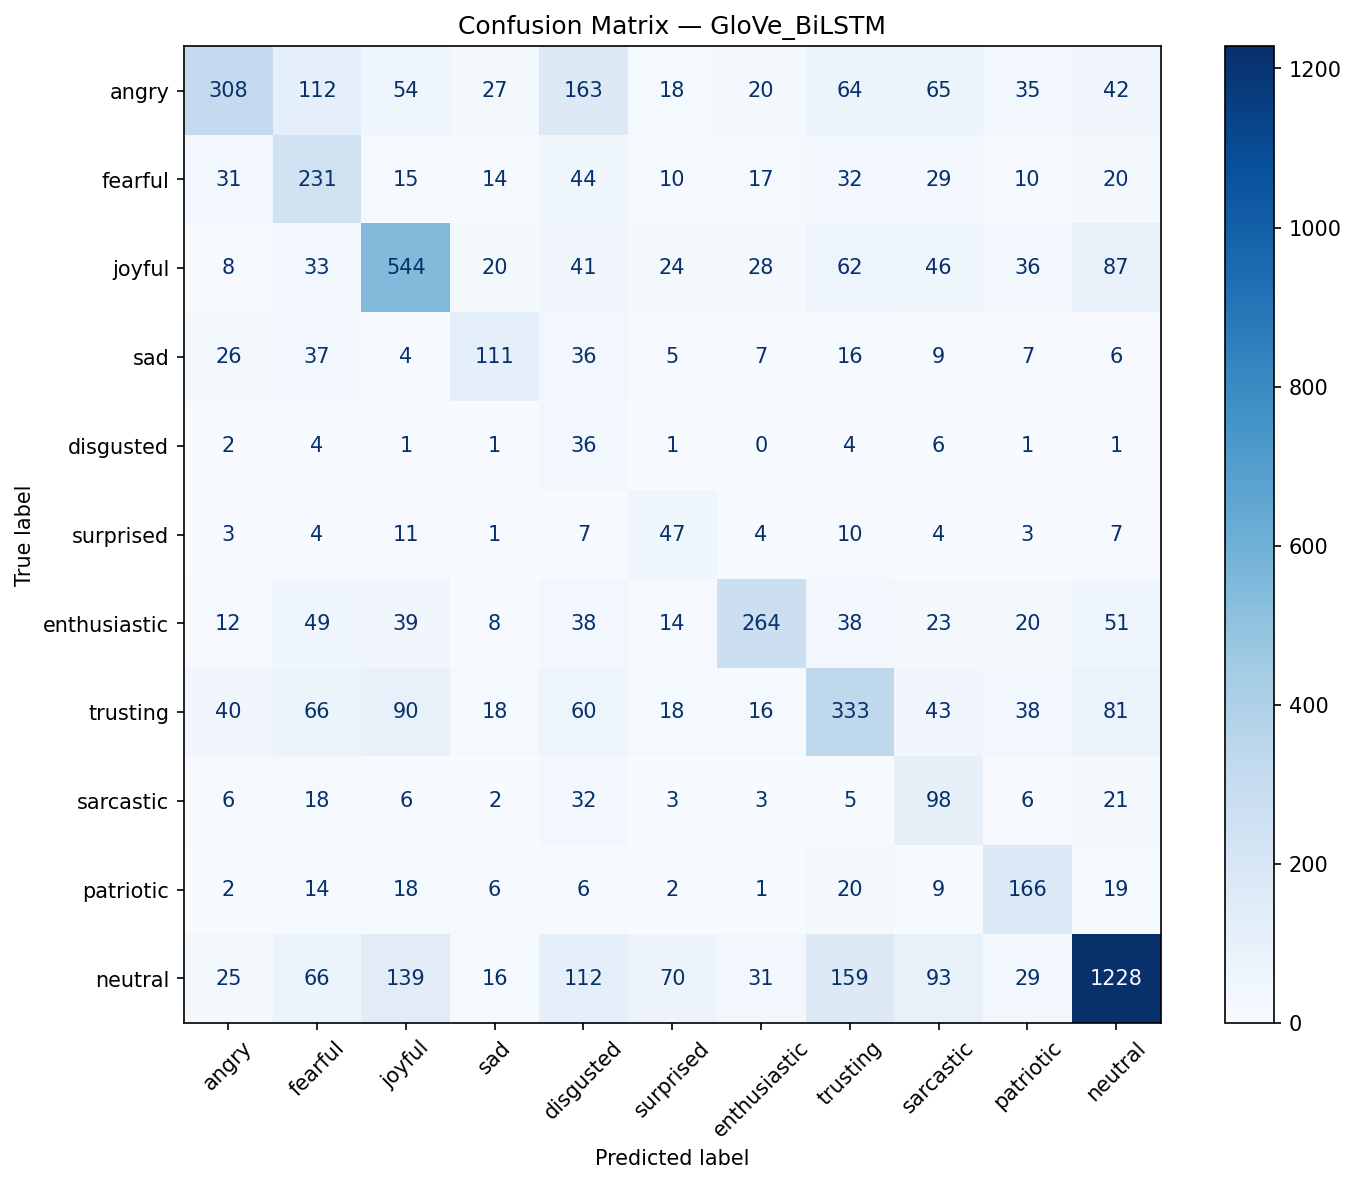
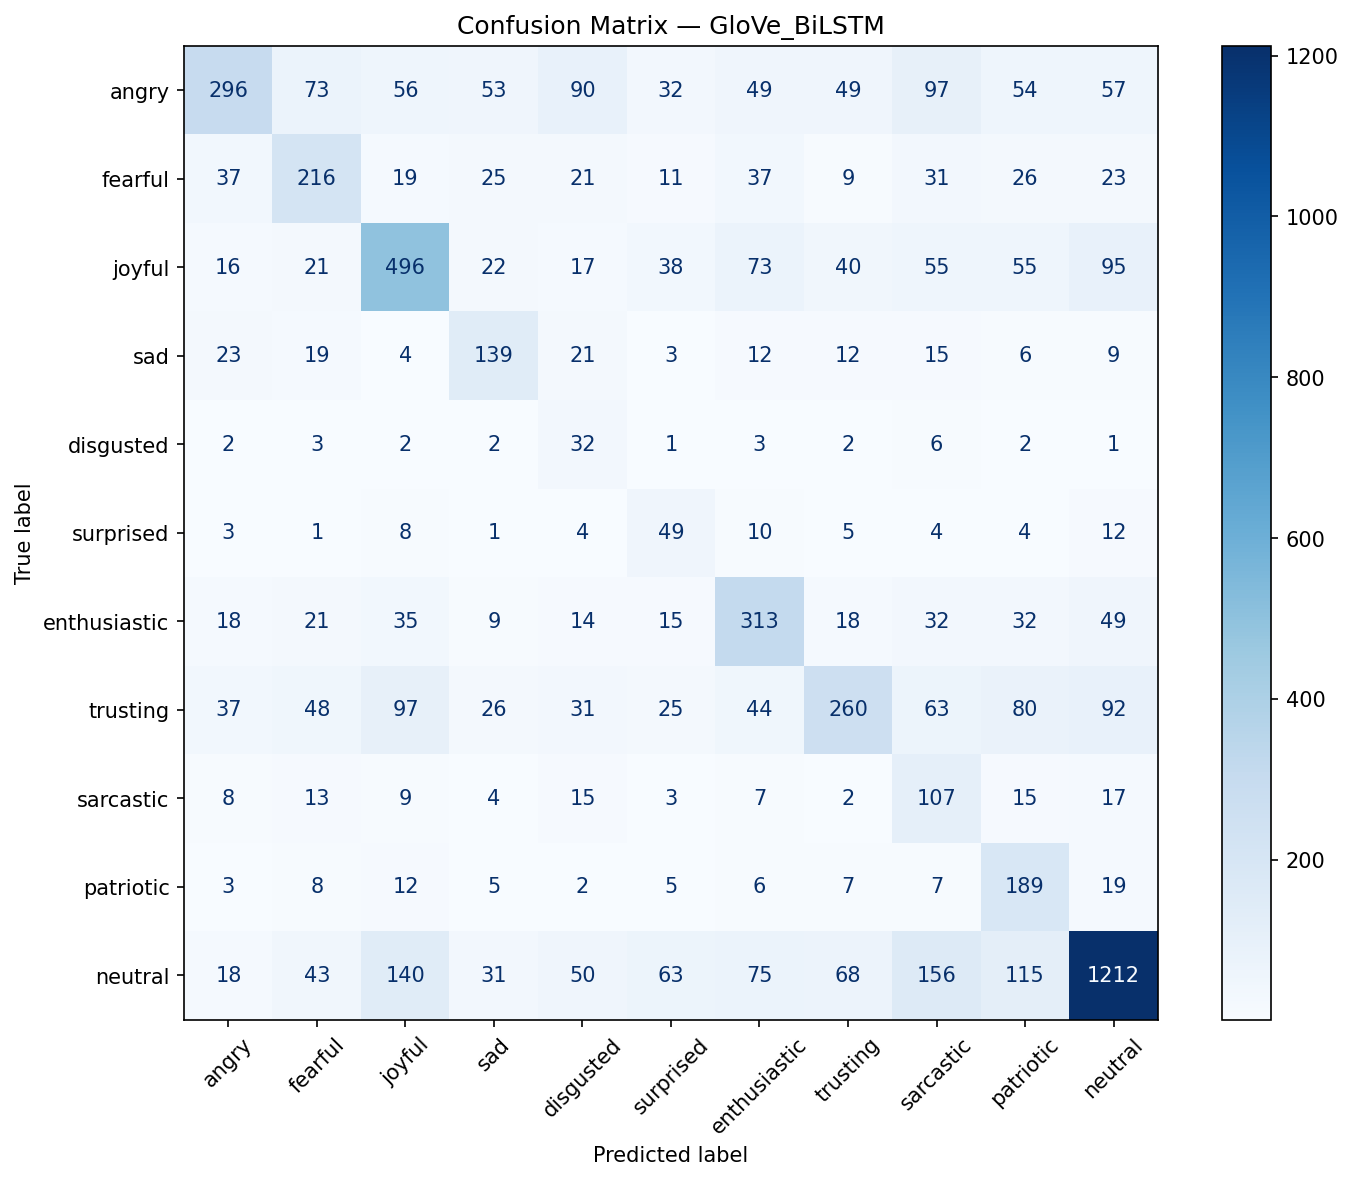
update sprawozdania

diff --git a/sprawozdanie/sprawozdanie.tex b/sprawozdanie/sprawozdanie.tex
@@ -26,22 +26,33 @@ linkcolor=blue,
 urlcolor=blue
 }
 
-\title{
-\textbf{Sprawozdanie - Analiza sentymentu tweetów Donalda Trumpa}
-}
-
-\author{
-Autorzy:\
-Martyna Lach,\
-Julia Mucha,\
-Piotr Waszak
-}
-
-\date{\today}
-
 \begin{document}
 
-\maketitle
+\begin{titlepage}
+\centering
+
+\vspace*{2cm}
+
+{\LARGE\textbf{Dokumentacja}}\\[0.5cm]
+{\Large Metody Inteligencji Obliczeniowej}\\[1cm]
+{\Huge\textbf{Analiza sentymentu tweetów Donalda Trumpa}}\\[3cm]
+
+\includegraphics[width=0.25\textwidth]{figures/agh.png}\\[2cm]
+
+{\Large Wydział Fizyki i Informatyki Stosowanej}\\[1.5cm]
+
+\begin{tabular}{c}
+Martyna Lach \\
+Julia Mucha \\
+Piotr Waszak
+
+\end{tabular}
+
+\vfill
+
[phone redacted]
+
+\end{titlepage}
 
 \tableofcontents
 \newpage
@@ -68,6 +79,7 @@ W ramach projektu przygotowano automatyczny system etykietowania tweetów, a nas
 
 \begin{itemize}
 \item DistilBERT + MLP,
+\item DistilBERT (end-to-end),
 \item SBERT + MLP,
 \item GloVe + BiLSTM,
 \item Zero-Shot BART,
@@ -136,42 +148,48 @@ Jak pokazano na rysunku \ref{fig:class_distribution}, zbiór danych jest niezbal
 % =====================================================
 \section{Zastosowane metody}
 
-W celu oceny różnych sposobów reprezentacji tekstu oraz klasyfikacji emocji przeprowadzono eksperymenty z wykorzystaniem czterech podejść opartych na nowoczesnych metodach przetwarzania języka naturalnego. Zastosowane modele różniły się zarówno sposobem reprezentacji tweetów, jak i architekturą klasyfikatora.
+W celu oceny różnych sposobów reprezentacji tekstu oraz klasyfikacji emocji przeprowadzono eksperymenty z wykorzystaniem pięciu podejść opartych na nowoczesnych metodach przetwarzania języka naturalnego. Zastosowane modele różniły się zarówno sposobem reprezentacji tweetów, jak i architekturą klasyfikatora.
 
 \begin{table}[H]
 \centering
 \caption{Porównanie zastosowanych podejść.}
-\label{tab}
+\label{tab:models}
 \begin{tabular}{lll}
 \toprule
-Model & Reprezentacja tekstu & Klasyfikator \\
+Model & Reprezentacja & Klasyfikator \\
 \midrule
-DistilBERT + MLP & embedding CLS (768) & Residual MLP \\
-SBERT + MLP & embedding zdania (384) & Residual MLP \\
-GloVe + BiLSTM & sekwencja tokenów (200) & BiLSTM + Attention \\
-Zero-Shot BART & reprezentacja wewnętrzna BART & NLI (bez treningu) \\
-TF-IDF + Logistic Regression & TF-IDF & Logistic Regression \\
+DistilBERT + MLP & CLS (768) & Residual MLP \\
+DistilBERT FT & Tokeny + CLS (768) & DistilBERT (end-to-end) \\
+SBERT + MLP & Sentence Embedding (384) & Residual MLP \\
+GloVe + BiLSTM & Token Embeddings (200) & BiLSTM + Attention \\
+Zero-Shot BART & Reprezentacja BART & NLI \\
+TF-IDF + LR & TF-IDF & Logistic Regression \\
 \bottomrule
 \end{tabular}
 \end{table}
+\subsection{DistilBERT + MLP (frozen)}
 
-\subsection{DistilBERT + MLP}
-
-Pierwsze podejście wykorzystywało embeddingi generowane przez model DistilBERT. Dla każdego tweeta pobierano reprezentację tokenu CLS o wymiarze 768, która stanowiła zagregowany opis całej wypowiedzi.
+Pierwsze podejście wykorzystywało embeddingi generowane przez model DistilBERT. Dla każdego tweeta pobierano reprezentację tokenu CLS o wymiarze 768, która stanowiła zagregowany opis całej wypowiedzi. Wagi modelu DistilBERT pozostawały zamrożone podczas treningu — model pełnił wyłącznie rolę ekstrakatora cech.
 
 Embeddingi były następnie przekazywane do wielowarstwowej sieci neuronowej typu MLP (Multi-Layer Perceptron) wyposażonej w połączenia rezydualne (Residual Connections). Zastosowanie połączeń rezydualnych umożliwia stabilniejszy trening głębszych sieci poprzez ułatwienie propagacji gradientów oraz ograniczenie problemu zanikania gradientu.
 
-Architektura składała się z warstwy projekcji wejścia, trzech bloków rezydualnych wykorzystujących funkcję aktywacji GELU oraz końcowej warstwy klasyfikacyjnej przewidującej jedną z jedenastu klas emocjonalnych.
+Architektura składała się z warstwy projekcji wejścia, dwóch bloków rezydualnych wykorzystujących funkcję aktywacji GELU oraz końcowej warstwy klasyfikacyjnej przewidującej jedną z jedenastu klas emocjonalnych.
+
+\subsection{DistilBERT Fine-tuned (end-to-end)}
+
+Drugie podejście stanowiło rozszerzenie pierwszego — zamiast zamrożonych embeddingów przeprowadzono pełny fine-tuning modelu DistilBERT wraz z klasyfikatorem. Wagi transformera były aktualizowane podczas treningu, co pozwala modelowi dostosować reprezentacje do specyfiki klasyfikacji emocji w tweetach.
+
+Model przyjmował na wejściu tokeny (input\_ids oraz attention\_mask) i przekazywał reprezentację tokenu CLS do prostszej głowy klasyfikacyjnej: Dropout → Linear(768, 256) → GELU → Dropout → Linear(256, 11). Ze względu na znacznie wyższy koszt obliczeniowy fine-tuningu trening przeprowadzono na podzbiorze 12\,000 próbek przez 4 epoki z early stopping (patience = 2), z oddzielnymi wartościami learning rate dla warstw transformera ($3 \times 10^{-5}$) i głowy klasyfikacyjnej ($3 \times 10^{-4}$).
 
 \subsection{SBERT + MLP}
 
-Drugie podejście oparto na modelu Sentence-BERT (SBERT), wykorzystując wariant \texttt{all-MiniLM-L6-v2}. W przeciwieństwie do klasycznego BERT-a, model ten został zaprojektowany do generowania reprezentacji całych zdań i zachowywania podobieństwa semantycznego pomiędzy wypowiedziami.
+Trzecie podejście oparto na modelu Sentence-BERT (SBERT), wykorzystując wariant \texttt{all-MiniLM-L6-v2}. W przeciwieństwie do klasycznego BERT-a, model ten został zaprojektowany do generowania reprezentacji całych zdań i zachowywania podobieństwa semantycznego pomiędzy wypowiedziami.
 
 Każdy tweet reprezentowany był przez wektor o wymiarze 384. Następnie zastosowano tę samą architekturę klasyfikatora MLP z połączeniami rezydualnymi, co w przypadku modelu DistilBERT. Dzięki temu możliwe było bezpośrednie porównanie jakości obu rodzajów embeddingów przy identycznej architekturze klasyfikacyjnej.
 
 \subsection{GloVe + BiLSTM}
 
-Trzecie podejście wykorzystało klasyczne embeddingi GloVe wytrenowane na danych z serwisu Twitter (\texttt{glove-twitter-200}). W przeciwieństwie do modeli transformerowych embeddingi GloVe są statyczne i nie zależą od kontekstu występowania słowa.
+Czwarte podejście wykorzystało klasyczne embeddingi GloVe wytrenowane na danych z serwisu Twitter (\texttt{glove-twitter-200}). W przeciwieństwie do modeli transformerowych embeddingi GloVe są statyczne i nie zależą od kontekstu występowania słowa.
 
 Sekwencje tokenów były przetwarzane przez dwukierunkową sieć LSTM (BiLSTM), która analizowała tekst zarówno od początku do końca, jak i w kierunku przeciwnym. Pozwala to lepiej modelować zależności występujące w zdaniu.
 
@@ -181,7 +199,7 @@ Ostateczna reprezentacja uzyskana przez mechanizm uwagi była przekazywana do wa
 
 \subsection{Zero-Shot BART}
 
-Ostatnie podejście neuronowe stanowił model \texttt{facebook/bart-large-mnli} wykorzystany w trybie klasyfikacji zero-shot. W odróżnieniu od pozostałych metod model nie był trenowany na zbiorze tweetów Donalda Trumpa.
+Piąte podejście stanowił model \texttt{facebook/bart-large-mnli} wykorzystany w trybie klasyfikacji zero-shot. W odróżnieniu od pozostałych metod model nie był trenowany na zbiorze tweetów Donalda Trumpa.
 
 Klasyfikacja realizowana była poprzez mechanizm Natural Language Inference (NLI). Dla każdego tweeta model oceniał prawdopodobieństwo przypisania do każdej z badanych emocji na podstawie zdań opisujących poszczególne klasy.
 
@@ -208,17 +226,21 @@ Tabela \ref{tab:results} przedstawia wartości Accuracy oraz Macro F1 uzyskane p
 \centering
 \caption{Porównanie skuteczności modeli.}
 \label{tab:results}
-\begin{tabular}{lcc}
+\begin{tabular}{lccc}
 \toprule
-Model & Accuracy & Macro F1 \\
+Model & Accuracy & Macro F1 & F1 Weighted \\
 \midrule
-DistilBERT + MLP & 0.267 & 0.197 \\
-SBERT + MLP & 0.329 & 0.257 \\
-GloVe + BiLSTM & 0.518 & 0.443 \\
-Zero-Shot BART & 0.132 & 0.121 \\
-TF-IDF + Logistic Regression & 0.650 & 0.480 \\
+DistilBERT + MLP (frozen) & 0.270 & 0.193 & 0.290 \\
+SBERT + MLP & 0.316 & 0.247 & 0.330 \\
+DistilBERT Fine-tuned & 0.503 & 0.431 & 0.520 \\
+GloVe + BiLSTM & 0.509 & 0.431 & 0.530 \\
+Zero-Shot BART & 0.132 & 0.121 & 0.140 \\
+TF-IDF + Logistic Regression* & 0.650 & 0.480 & 0.630 \\
 \bottomrule
 \end{tabular}
+\smallskip
+
+{\footnotesize * Ewaluacja na losowym podziale 80/20 zamiast stratyfikowanego 70/15/15 stosowanego przez pozostałe modele — wyniki nie są w pełni porównywalne.}
 \end{table}
 
 \begin{figure}[H]
@@ -228,9 +250,11 @@ TF-IDF + Logistic Regression & 0.650 & 0.480 \\
 \label{fig:model_comparison}
 \end{figure}
 
-Najwyższą skuteczność osiągnął model TF-IDF + Logistic Regression, uzyskując Accuracy równą 0.650 oraz Macro F1 na poziomie 0.480. Wśród modeli neuronowych najlepsze wyniki osiągnął model GloVe + BiLSTM z mechanizmem uwagi, który uzyskał Accuracy równą 0.518 oraz Macro F1 równą 0.443.
+Najwyższą skuteczność osiągnął model TF-IDF + Logistic Regression (Accuracy 0.650, Macro F1 0.480), jednak wynik ten należy interpretować z ostrożnością ze względu na różnice w procedurze ewaluacji opisane w przypisie do tabeli. Dodatkowo TF-IDF posiada strukturalną przewagę wynikającą ze sposobu etykietowania: etykiety NRC generowane są na podstawie obecności konkretnych słów w tekście, a model liniowy operuje na tych samych cechach leksykalnych.
 
-Model SBERT + MLP osiągnął lepsze wyniki niż DistilBERT + MLP, co sugeruje, że embeddingi projektowane do reprezentowania znaczenia całych zdań lepiej sprawdzają się w zadaniu klasyfikacji emocji. Najsłabsze rezultaty uzyskał model Zero-Shot BART, który nie był trenowany na analizowanym zbiorze danych i pełnił jedynie rolę punktu odniesienia.
+Wśród modeli neuronowych najlepsze wyniki osiągnęły ex aequo DistilBERT Fine-tuned oraz GloVe + BiLSTM, uzyskując Accuracy odpowiednio 0.503 i 0.509 oraz Macro F1 równą 0.431 dla obu modeli. Wynik DistilBERT Fine-tuned jest szczególnie istotny, ponieważ uzyskano go na podzbiorze zaledwie 12\,000 próbek przy 4 epokach treningu — co wskazuje na potencjał tego podejścia przy pełnym zbiorze danych.
+
+Modele oparte na zamrożonych embeddingach (DistilBERT + MLP, SBERT + MLP) wypadły wyraźnie słabiej, z Macro F1 poniżej 0.25. Najsłabsze rezultaty uzyskał model Zero-Shot BART, który nie był trenowany na analizowanym zbiorze i pełnił jedynie rolę punktu odniesienia.
 
 \subsection{Analiza skuteczności dla poszczególnych klas}
 
@@ -249,13 +273,15 @@ Najlepiej rozpoznawaną klasą była \textit{neutral}, dla której wszystkie mod
 
 Znacznie większe trudności sprawiały klasy \textit{disgusted}, \textit{surprised} oraz \textit{sarcastic}. Dla tych emocji wszystkie analizowane modele osiągały niskie wartości F1-score, często nieprzekraczające 0.2. Szczególnie trudna okazała się klasa \textit{disgusted}, która była jednocześnie jedną z najmniej licznych klas w całym zbiorze danych.
 
-Widoczna zależność pomiędzy liczebnością klasy a jakością klasyfikacji sugeruje, że niezbalansowany rozkład danych miał istotny wpływ na uzyskane wyniki. Jednocześnie niektóre emocje, takie jak \textit{sarcastic}, pozostają trudne do rozpoznania niezależnie od liczby przykładów, ponieważ ich poprawna identyfikacja często wymaga uwzględnienia szerszego kontekstu wypowiedzi.
+Widoczna zależność pomiędzy liczebnością klasy a jakością klasyfikacji sugeruje, że niezbalansowany charakter zbioru danych miał istotny wpływ na uzyskane wyniki. Warto zaznaczyć, że zastosowana stratyfikacja podczas podziału danych zapewniła jedynie zachowanie proporcji klas w zbiorach treningowym i testowym, nie eliminując problemu nierównowagi.
+
+Jednocześnie niektóre emocje, takie jak \textit{sarcastic}, pozostają trudne do rozpoznania niezależnie od liczby przykładów, ponieważ ich poprawna identyfikacja często wymaga uwzględnienia szerszego kontekstu wypowiedzi.
 
 Wynik ten jest zgodny z rozkładem danych przedstawionym wcześniej. Klasy posiadające niewielką liczbę przykładów treningowych były znacznie trudniejsze do nauczenia przez modele, co przełożyło się na niższe wartości Precision, Recall oraz F1-score.
 
 \subsection{Analiza błędów klasyfikacji}
 
-Aby lepiej zrozumieć źródła błędów klasyfikacyjnych, przeanalizowano macierz pomyłek dla najlepszego modelu neuronowego, tj. GloVe + BiLSTM.
+Aby lepiej zrozumieć źródła błędów klasyfikacyjnych, przeanalizowano macierze pomyłek dla dwóch najlepszych modeli neuronowych: GloVe + BiLSTM oraz DistilBERT Fine-tuned.
 
 \begin{figure}[H]
 \centering
@@ -264,13 +290,18 @@ Aby lepiej zrozumieć źródła błędów klasyfikacyjnych, przeanalizowano maci
 \label{fig:confusion_glove}
 \end{figure}
 
-Macierz pomyłek przedstawiona na rysunku \ref{fig:confusion_glove} pokazuje, że model najskuteczniej rozpoznaje klasy licznie reprezentowane w zbiorze danych, takie jak \textit{neutral}, \textit{joyful}, \textit{angry} oraz \textit{trusting}. Jednocześnie można zauważyć wyraźną tendencję do przewidywania klasy \textit{neutral}, która była najczęściej występującą kategorią w całym zbiorze danych.
+\begin{figure}[H]
+\centering
+\includegraphics[width=0.9\textwidth]{figures/confusion_matrix_DistilBERT_FT.png}
+\caption{Macierz pomyłek dla modelu DistilBERT Fine-tuned.}
+\label{fig:confusion_ft}
+\end{figure}
 
-Analiza błędnych klasyfikacji wskazuje również na występowanie pomyłek pomiędzy emocjami o podobnym znaczeniu semantycznym. Przykładowo klasa \textit{angry} była często mylona z klasami \textit{fearful} oraz \textit{disgusted}, natomiast klasa \textit{trusting} była regularnie klasyfikowana jako \textit{joyful} lub \textit{neutral}. Takie błędy są częściowo zrozumiałe, ponieważ granice pomiędzy niektórymi emocjami nie są jednoznaczne nawet dla człowieka.
+Macierz pomyłek modelu GloVe + BiLSTM (rysunek \ref{fig:confusion_glove}) pokazuje, że model najskuteczniej rozpoznaje klasy licznie reprezentowane w zbiorze danych, takie jak \textit{neutral}, \textit{joyful}, \textit{angry} oraz \textit{trusting}. Klasy rzadkie (\textit{disgusted}, \textit{surprised}, \textit{sarcastic}) są rozpoznawane z wysokim recall, ale niską precision — model przewiduje je zbyt często i generuje dużo fałszywych alarmów.
 
-Największe problemy dotyczyły klas rzadkich, takich jak \textit{disgusted}, \textit{surprised} oraz \textit{sarcastic}. Dla tych kategorii liczba poprawnych predykcji była relatywnie niewielka, a wiele przykładów przypisywano do klas częstszych. Jest to typowy efekt niezbalansowanego zbioru danych, w którym model otrzymuje znacznie mniej przykładów umożliwiających nauczenie charakterystycznych wzorców dla klas mniejszościowych.
+DistilBERT Fine-tuned (rysunek \ref{fig:confusion_ft}) prezentuje jakościowo inny wzorzec błędów. Przekątna jest wyraźna dla wszystkich klas, w tym trudnych — \textit{disgusted} (14 poprawnych predykcji), \textit{sarcastic} (33) i \textit{surprised} (10). Popełniane pomyłki są semantycznie uzasadnione: \textit{trusting}~$\rightarrow$~\textit{joyful} (40 przypadków), \textit{angry}~$\rightarrow$~\textit{sad} (44) — model myli emocje bliskie znaczeniowo, a nie losowe klasy jak modele zamrożone.
 
-Wyniki potwierdzają, że głównym źródłem błędów była zarówno nierównowaga klas, jak i częściowe nakładanie się znaczeniowe niektórych emocji występujących w tweetach.
+Analiza obu macierzy wskazuje, że głównym źródłem błędów była zarówno nierównowaga klas, jak i semantyczne podobieństwo niektórych emocji, których granice nie są jednoznaczne nawet dla człowieka.
 
 % =====================================================
 % =====================================================
@@ -278,11 +309,14 @@ Wyniki potwierdzają, że głównym źródłem błędów była zarówno nierówn
 
 Jednym z celów projektu było zbadanie interpretowalności zastosowanych modeli. W tym celu wykorzystano metodę SHAP (SHapley Additive exPlanations), która pozwala określić wpływ poszczególnych cech wejściowych na decyzję klasyfikatora.
 
-Analizę przeprowadzono dla dwóch istotnie różnych podejść: modelu wykorzystującego embeddingi zdań (SBERT + MLP) oraz modelu TF--IDF + Logistic Regression. Pozwoliło to porównać nie tylko skuteczność modeli, ale również możliwość wyjaśnienia ich decyzji.
+Analizę przeprowadzono dla trzech istotnie różnych podejść: modeli opartych na zamrożonych embeddingach (DistilBERT~+~MLP oraz SBERT~+~MLP) oraz modelu TF-IDF~+~Logistic Regression. Pozwoliło to porównać nie tylko skuteczność modeli, lecz również możliwość wyjaśnienia ich decyzji w zależności od rodzaju reprezentacji tekstu.
 
-\subsection{Model SBERT + MLP}
+\subsection{Modele oparte na embeddingach: DistilBERT + MLP i SBERT + MLP}
 
-W przypadku modelu SBERT + MLP wejściem klasyfikatora był embedding zdania o wymiarze 384. Oznacza to, że SHAP analizował wpływ poszczególnych wymiarów reprezentacji wektorowej, a nie konkretnych słów występujących w tweecie.
+
+W przypadku obu modeli opartych na zamrożonych embeddingach wejściem klasyfikatora były wektory reprezentacji zdania — odpowiednio token CLS o wymiarze 768 dla DistilBERT oraz wektor zdania o wymiarze 384 dla SBERT. SHAP analizował wpływ poszczególnych wymiarów tych reprezentacji wektorowych, a nie konkretnych słów występujących w tweetach.
+
+Wykresy słupkowe średniego bezwzględnego wpływu poszczególnych wymiarów (dostępne w repozytorium jako \texttt{shap\_bar\_DistilBERT\_MLP.png} oraz \texttt{shap\_bar\_SBERT\_MLP.png}) pokazują, że różne klasy opierają się na różnych zestawach wymiarów, co sugeruje pewien stopień specjalizacji per klasa. Jednocześnie nakładanie się ważnych wymiarów między klasami — np. dim\_594 pojawia się jako istotny zarówno dla klas \textit{angry}, \textit{joyful}, jak i \textit{trusting} w modelu DistilBERT + MLP — wskazuje na brak wyraźnej separacji przestrzeni embeddingów dla zadania klasyfikacji emocji.
 
 \begin{figure}[H]
 \centering
@@ -291,7 +325,8 @@ W przypadku modelu SBERT + MLP wejściem klasyfikatora był embedding zdania o w
 \label{fig:shap_sbert}
 \end{figure}
 
-Jak pokazano na rysunku \ref{fig:shap_sbert}, SHAP identyfikuje grupę wymiarów embeddingu, które mają największy wpływ na przypisanie klasy \textit{angry}. Możliwe jest określenie względnego znaczenia poszczególnych cech, jednak ich interpretacja pozostaje utrudniona.
+Jak pokazano na rysunku \ref{fig:shap_sbert}, SHAP identyfikuje grupę wymiarów embeddingu, które mają największy wpływ na przypisanie klasy \textit{angry}. 
+Większość punktów skupia się wokół zera z długimi ogonami w obu kierunkach, co wskazuje na niestabilny i silnie próbkozależny wpływ poszczególnych wymiarów. Możliwe jest określenie względnego znaczenia poszczególnych cech, jednak ich interpretacja pozostaje utrudniona.
 
 Poszczególne wymiary embeddingu nie posiadają jednoznacznego znaczenia semantycznego. W przeciwieństwie do klasycznych cech tekstowych nie można stwierdzić, które konkretne słowa lub konstrukcje językowe odpowiadają za obserwowany wpływ. W rezultacie analiza SHAP pozwala ocenić, które fragmenty reprezentacji wektorowej są istotne dla modelu, ale nie wyjaśnia bezpośrednio mechanizmu podejmowania decyzji.
 
@@ -327,27 +362,23 @@ W przeciwieństwie do modelu SBERT możliwe było więc nie tylko wskazanie waż
 
 Analiza SHAP ujawniła wyraźną różnicę pomiędzy interpretowalnością badanych modeli.
 
-Model SBERT wykorzystywał złożoną reprezentację semantyczną tekstu, jednak wpływ poszczególnych wymiarów embeddingu był trudny do przełożenia na język naturalny. Z kolei model TF--IDF pozwalał bezpośrednio wskazać słowa odpowiedzialne za przypisanie danej emocji, dzięki czemu jego decyzje były znacznie bardziej przejrzyste.
+Modele DistilBERT + MLP oraz SBERT + MLP operowały na złożonych reprezentacjach semantycznych tekstu, jednak wpływ poszczególnych wymiarów embeddingu był trudny do przełożenia na język naturalny — niemożliwe było bezpośrednie wskazanie słów odpowiedzialnych za podjętą decyzję. Z kolei model TF-IDF pozwalał zidentyfikować konkretne słowa i bigramy wpływające na klasyfikację każdej z analizowanych emocji, a ich interpretacja była intuicyjna i zgodna z charakterem danej klasy.
 
-Warto zauważyć, że najważniejsze słowa wskazane przez SHAP były zgodne z intuicją oraz charakterem analizowanych emocji. Sugeruje to, że model nie opierał się na przypadkowych korelacjach, lecz rzeczywiście wykorzystywał sygnały językowe związane z treścią tweetów.
-
-Ostatecznie analiza SHAP pokazała, że wzrost złożoności reprezentacji tekstu prowadzi do spadku interpretowalności modelu. Jest to klasyczny kompromis pomiędzy możliwością wyjaśnienia decyzji a wykorzystaniem bardziej abstrakcyjnych reprezentacji semantycznych.
+Ostatecznie analiza SHAP potwierdziła klasyczny kompromis pomiędzy złożonością reprezentacji tekstu a interpretowalnością modelu: bogatsze semantycznie embeddingi oferują potencjalnie lepszy opis treści, lecz kosztem przejrzystości mechanizmu podejmowania decyzji.
 
 
 % =====================================================
 \section{Dyskusja wyników}
 
-\subsection{Dlaczego GloVe + BiLSTM osiągnął najlepsze wyniki wśród modeli neuronowych?}
+\subsection{Dlaczego modele sekwencyjne i fine-tuned przewyższają zamrożone embeddingi?}
 
-Jednym z najbardziej interesujących wyników eksperymentów jest wyraźna przewaga modelu GloVe + BiLSTM nad modelami wykorzystującymi embeddingi transformerowe. Jak pokazano w tabeli \ref{tab:results}, model ten osiągnął Accuracy równą 0.518, podczas gdy DistilBERT + MLP uzyskał jedynie 0.267.
+Jednym z najbardziej interesujących wyników eksperymentów jest wyraźna przewaga modeli GloVe + BiLSTM (Accuracy 0.509) oraz DistilBERT Fine-tuned (Accuracy 0.503) nad modelami wykorzystującymi zamrożone embeddingi transformerowe (DistilBERT + MLP frozen: 0.270, SBERT + MLP: 0.316).
 
-Na pierwszy rzut oka wynik ten może wydawać się zaskakujący. DistilBERT jest znacznie bardziej zaawansowanym modelem językowym niż klasyczne embeddingi GloVe, jednak w przeprowadzonym eksperymencie wykorzystano jedynie gotowy embedding CLS przekazywany następnie do klasyfikatora MLP. W takiej konfiguracji model operuje na pojedynczym wektorze reprezentującym cały tweet i nie wykorzystuje informacji o kolejności słów.
+Modele zamrożone operują na reprezentacjach CLS optymalizowanych pod inne zadania — maskowane modelowanie języka (MLM) dla DistilBERT oraz podobieństwo semantyczne zdań dla SBERT — a nie klasyfikację emocji w nieformalnych tekstach twitterowych. Bogatsza wymiarowość przestrzeni embeddingów nie kompensuje tego niedopasowania dziedzinowego.
 
-Model GloVe + BiLSTM działał w odmienny sposób. BiLSTM przetwarzał pełną sekwencję tokenów, dzięki czemu mógł modelować lokalne zależności pomiędzy słowami. Dodatkowo zastosowany mechanizm Attention pozwalał koncentrować się na fragmentach wypowiedzi najbardziej istotnych dla rozpoznawanej emocji.
+GloVe + BiLSTM uzyskuje wysoką skuteczność z dwóch niezależnych powodów. Embeddingi \texttt{glove-twitter-200} wytrenowane na korpusie tweetów naturalnie kodują skróty, emotikony i nieformalny rejestr językowy charakterystyczny dla badanego zbioru. Architektura BiLSTM z mechanizmem addytywnej uwagi zachowuje lokalny kontekst sekwencyjny — model przypisuje zróżnicowane wagi poszczególnym tokenom zamiast operować na jednym zagregowanym wektorze.
 
-Istotnym czynnikiem mogła być również domena danych wykorzystanych podczas uczenia embeddingów. Model \texttt{glove-twitter-200} został wytrenowany bezpośrednio na tweetach, przez co lepiej odwzorowuje charakterystyczny język mediów społecznościowych, obejmujący skróty, niestandardową interpunkcję czy częste użycie wielkich liter. Analizowane tweety są znacznie bliższe temu środowisku niż tekstom wykorzystywanym podczas trenowania DistilBERT.
-
-Wyniki sugerują więc, że w analizowanym zadaniu większe znaczenie miało dopasowanie reprezentacji do domeny oraz możliwość modelowania sekwencji niż sama złożoność modelu językowego.
+DistilBERT Fine-tuned osiąga porównywalny wynik inną drogą — poprzez odblokowanie wag transformera i dostosowanie reprezentacji CLS do zadania klasyfikacji emocji w trakcie treningu. Wynik ten uzyskano na podzbiorze 12\,000 próbek przy zaledwie 4 epokach, co wskazuje że przy pełnym zbiorze i dłuższym treningu podejście to miałoby potencjał do dalszej poprawy.
 
 \subsection{Dlaczego model Zero-Shot BART osiągnął tak słabe wyniki?}
 
@@ -363,13 +394,11 @@ Wyniki pokazują, że mimo dużych możliwości współczesnych modeli językowy
 
 Analiza wartości F1-score dla poszczególnych klas (rysunek \ref{fig:f1_per_class}) pokazuje, że poziom trudności klasyfikacji był bardzo nierównomierny.
 
-Najlepiej rozpoznawaną klasą była \textit{neutral}, dla której średni F1-score wyniósł około 0.46. Relatywnie wysokie wyniki osiągano również dla klas \textit{joyful} oraz \textit{patriotic}. Wspólną cechą tych kategorii jest występowanie charakterystycznego słownictwa, które modele mogły stosunkowo łatwo powiązać z konkretną etykietą.
+Najlepiej rozpoznawaną klasą była \textit{neutral}, dla której wszystkie modele osiągały relatywnie wysokie wartości F1-score. Dobre wyniki uzyskano również dla klas \textit{joyful} oraz \textit{enthusiastic}. Emocje te charakteryzują się stosunkowo wyraźnym i powtarzalnym słownictwem, co ułatwia ich identyfikację.
 
-Znacznie większe trudności sprawiały klasy \textit{disgusted} (średni F1 = 0.09), \textit{surprised} (0.12) oraz \textit{sarcastic} (0.17). Wyniki te pozostawały niskie niezależnie od zastosowanej architektury.
+Widoczny jest wyraźny podział na dwie grupy modeli. DistilBERT Fine-tuned i GloVe + BiLSTM uzyskują akceptowalne F1 nawet dla klas trudnych: \textit{disgusted} odpowiednio 0.41 i 0.18, \textit{sarcastic} 0.36 i 0.28. Modele zamrożone (DistilBERT + MLP, SBERT + MLP) praktycznie nie rozpoznają tych klas, uzyskując F1 poniżej 0.10.
 
-W przypadku klas \textit{disgusted} i \textit{surprised} istotnym problemem była niewielka liczba przykładów treningowych. Jak pokazano wcześniej na rysunkach \ref{fig:class_distribution} oraz \ref{fig:class_distribution_per}, klasy te stanowiły około 1% całego zbioru danych. Tak mała reprezentacja utrudnia modelom nauczenie stabilnych wzorców klasyfikacyjnych.
-
-Szczególnym przypadkiem pozostaje sarkazm. W przeciwieństwie do większości emocji jego identyfikacja często wymaga wiedzy o kontekście wypowiedzi lub intencji autora. Informacje te nie były dostępne dla analizowanych modeli, dlatego rozpoznawanie sarkazmu okazało się trudne niezależnie od wykorzystanej reprezentacji tekstu.
+Klasa \textit{sarcastic} pozostaje trudna pomimo wyższej liczebności niż \textit{disgusted}. Etykiety sarcastic generowane są przez heurystykę opartą na negacji i analizie VADER, której modele operujące na gęstych embeddingach nie odtwarzają równie skutecznie co TF-IDF + Logistic Regression działający bezpośrednio na słowach.
 
 \subsection{Ograniczenia przeprowadzonych eksperymentów}
 